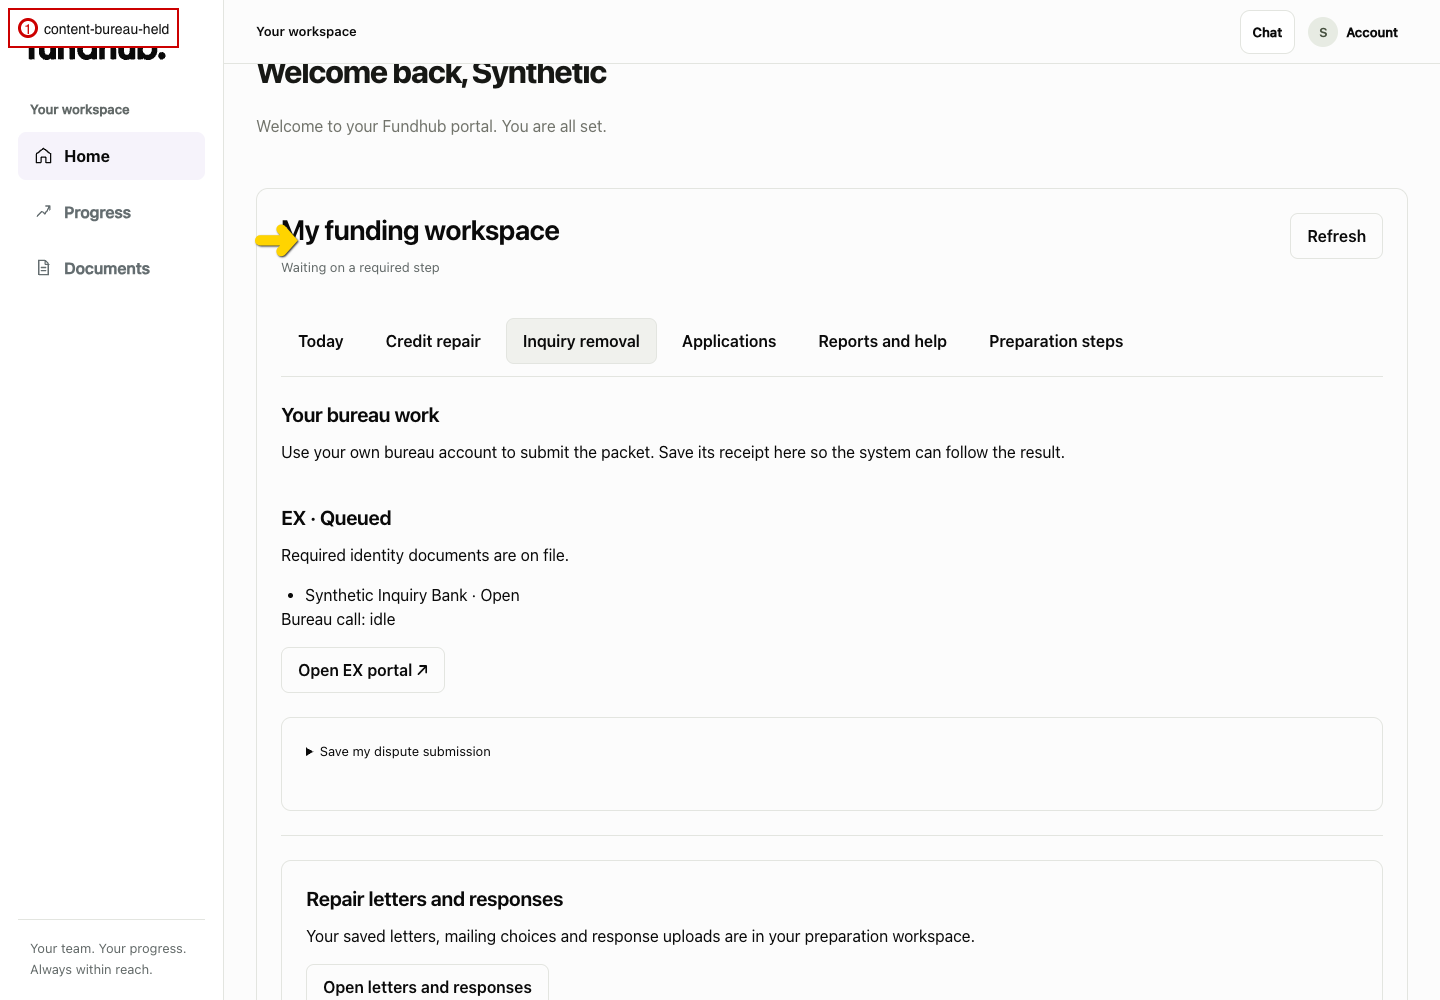
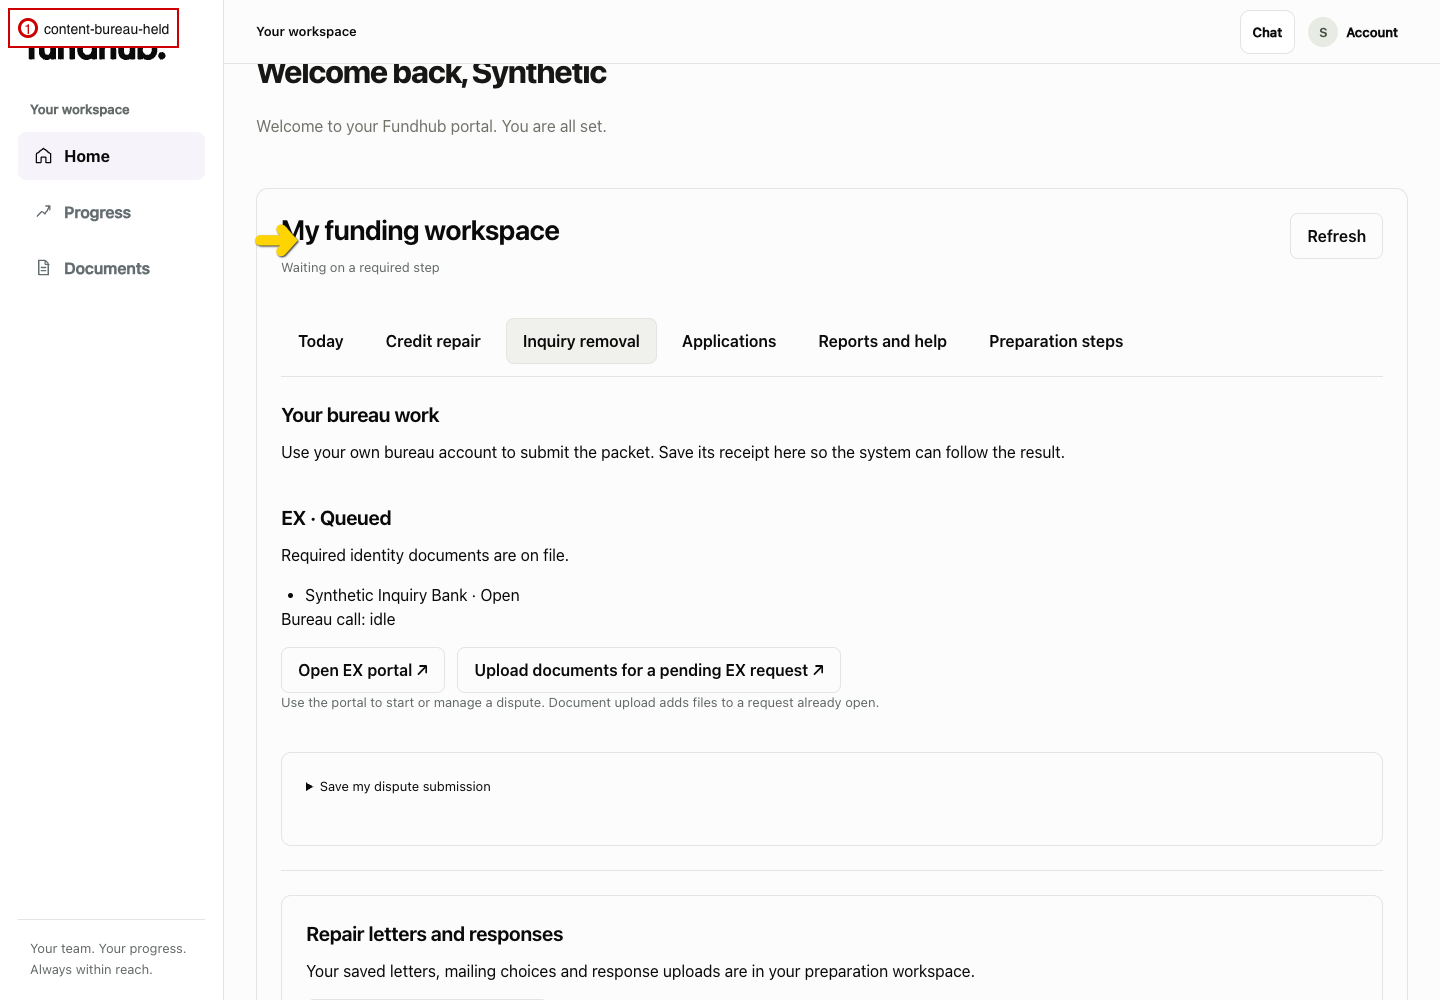
Use correct bureau dispute and supporting-upload destinations

Changed region(s): [[0.2188, 0.868, 0.6875, 1.0], [0.2188, 0.651, 0.5938, 0.713], [0.2188, 0.744, 0.3438, 0.806]]

diff --git a/public/app/blueprint-fulfillment.js b/public/app/blueprint-fulfillment.js
@@ -166,10 +166,17 @@
       <div class="bf-panel"><h3>Repair letters and responses</h3><p>Your saved letters, mailing choices and response uploads are in your preparation workspace.</p>${button('Open letters and responses','open-letters')}</div></section>`;
   }
 
+  function bureauPortalLinks(c) {
+    if (!active()) return '';
+    const portal = httpsUrl(c.portalUrl);
+    const upload = httpsUrl(c.documentUploadUrl);
+    if (!portal && !upload) return '';
+    return `<div class="bf-row">${portal ? `<a class="bf-link" href="${esc(portal)}" target="_blank" rel="noopener noreferrer">Open ${esc(c.bureau)} portal ↗</a>` : ''}${upload ? `<a class="bf-link" href="${esc(upload)}" target="_blank" rel="noopener noreferrer">Upload documents for a pending ${esc(c.bureau)} request ↗</a>` : ''}</div>${upload ? '<p class="bf-caption">Use the portal to start or manage a dispute. Document upload adds files to a request already open.</p>' : ''}`;
+  }
+
   function caseView(c) {
     const documents = rows(c.documents);
     const items = rows(c.inquiries);
-    const portal = httpsUrl(c.portalUrl);
     const packet = c.packet || {};
     return `<article class="bf-item"><h3>${esc(c.bureau)} · ${esc(c.status)}</h3>
       ${packet.complete ? '<p>Required identity documents are on file.</p>' : `<p>Documents needed: ${esc(rows(packet.missing).map(item => typeof item === 'string' ? item : item.label).join(', ') || 'Open your document upload steps.')}</p>`}
@@ -179,7 +186,8 @@
       ${c.nextCheckAt ? `<p>Next check: ${esc(date(c.nextCheckAt))}</p>` : ''}
       ${c.submissionReference ? `<p>Submission reference: ${esc(c.submissionReference)}</p>` : ''}
       ${c.call?.status ? `<p>Bureau call: ${esc(c.call.status)}</p>` : ''}
-      <div class="bf-row">${portal && active() ? `<a class="bf-link" href="${esc(portal)}" target="_blank" rel="noopener noreferrer">Open ${esc(c.bureau)} portal ↗</a>` : ''}
+      ${bureauPortalLinks(c)}
+      <div class="bf-row">
       ${documents.map(d => button(d.title || 'Open packet document','document',`data-id="${esc(d.id)}"`)).join('')}
       ${c.actions?.canCheckSavedEvidence ? button('Check saved bureau evidence','check-evidence',`data-id="${esc(c.id)}"`) : ''}</div>
       ${c.actions?.canLaunchCall && active() ? `<form data-bf-form="bureau-call" data-case="${esc(c.id)}" class="bf-panel"><label class="bf-authorization"><input type="checkbox" name="authorization" required> I authorize my AI agent to contact ${esc(c.bureau)} about the inquiries in this case.</label><button type="submit">Call bureau with my AI agent</button></form>` : ''}
@@ -246,7 +254,7 @@
       ${uploadForms(authorization.uploads)}
       <p>${esc(repair.stage || 'Your current saved repair file')}</p>
       ${repair.actions?.canGenerate && active() ? button('Prepare my current repair letters','generate-repair','',true) : ''}
-      ${rows(repair.cases).map(c => `<article class="bf-item"><h3>${esc(c.bureau)} · ${esc(c.round)} · ${esc(c.status)}</h3>${rows(c.items).map(item => `<p>${esc(item.creditor || item.creditorName || item.name || '')}${item.status ? ' · ' + esc(item.status) : ''}</p>`).join('')}${rows(c.letters).map(letterView).join('')}</article>`).join('')}
+      ${rows(repair.cases).map(c => `<article class="bf-item"><h3>${esc(c.bureau)} · ${esc(c.round)} · ${esc(c.status)}</h3>${bureauPortalLinks(c)}${rows(c.items).map(item => `<p>${esc(item.creditor || item.creditorName || item.name || '')}${item.status ? ' · ' + esc(item.status) : ''}</p>`).join('')}${rows(c.letters).map(letterView).join('')}</article>`).join('')}
       ${active() ? '<form data-bf-form="repair-response" class="bf-panel"><h3>Upload a bureau response</h3><label>Response document<input type="file" name="file" accept="application/pdf,image/jpeg,image/png" required></label><button type="submit">Upload response for review</button></form>' : ''}</section>`;
   }
 

diff --git a/docs/journeys/capital-blueprint-intended.md b/docs/journeys/capital-blueprint-intended.md
@@ -8,7 +8,7 @@ The existing preparation package remains $5,000–$10,000. The separately purcha
 
 - Keep one client file, existing repair cases, inquiry-removal cases, applications and purchased funding round across the client and CSM views. The client performs the employee workflow through scoped client controls. The system checks the result; a client's report, elapsed waiting period or checked box cannot verify a removal or funding result.
 - Follow optimize → permitted application → optimize/verify again within the purchased engagement. Check the current report, holds, permitted lender/business and bureau protection before every direct lender handoff. A clean bureau can proceed only when existing rules permit. A timer schedules a check; it does not establish removal.
-- Prepare the current repair letters, provide saved documents and official bureau destinations, record the client's actual submission receipts, ingest bureau responses through the existing response reader, and retain case/round attribution. Identity review and the signed current agreement gate the available AI bureau calls. Save the durable dispatch claim and actual provider receipt separately.
+- Prepare the current repair letters, provide saved documents and official bureau destinations, record the client's actual submission receipts, ingest bureau responses through the existing response reader, and retain case/round attribution. Both inquiry and repair views show those destinations. Experian's dispute center starts or manages a dispute; its separate document uploader supports an existing request. Preserve both links with clear instructions. Identity review and the signed current agreement gate the available AI bureau calls. Save the durable dispatch claim and actual provider receipt separately.
 - Record client bank reports separately from verified approval and actual issued/usable funding. Bind evidence to the exact application, lender and purchased round. Contradictory or ambiguous bank messages require team review. Approval alone is not funding. Close new submissions when the client finishes applying; resolve remaining actual outcomes before ending the round.
 - CSMs see every active full-package buyer, including a buyer who has no open task or help request. They follow the same saved work and may quote inquiry removal, one repair round, full repair or funding takeover. Quote → explicit client acceptance → exact verified payment precedes team ownership. Offer the existing Commas or configured Whop financing rail for that exact quote. Continue the same case/round; do not restart its history or borrow another sale's fees. Funding takeover changes funding ownership only; other repair/inquiry work remains client-operated unless its exact scope is separately delegated. Finish paid help with a scoped service receipt backed by the actual case/round outcome.
 - Include one soft pull per shared 30-day allowance window while the full engagement is active. A buyer without saved encrypted identity or current consent completes the existing secure authorization form, then receives one included request with no additional assessment checkout. Repeated submissions return the saved request, and automatic scheduling waits for that setup. All request entrances share the allowance. Additional reports use separately accepted exact quotes and confirmed payment. Parallel jobs cannot order the same request twice, and an uncertain provider outcome stays held for receipt reconciliation.

diff --git a/docs/journeys/capital-blueprint-actual.md b/docs/journeys/capital-blueprint-actual.md
@@ -8,6 +8,8 @@ Funding reuses UnderwriteIQ, lender matching, inquiry protection and application
 
 Repair and inquiry work use current cases, generated letters, reviewed identity, signed authorization, actual multipart receipt uploads and the existing bureau response reader. The client cannot mark an inquiry removed. Exact report/response evidence releases only the supported items and bureaus. AI call claims and provider call IDs remain distinct from completion. Funding takeover leaves independent repair and inquiry actions available; only an exact delegated case, repair round or full repair scope blocks those client actions.
 
+November 6 primary-source link check: [Experian's dispute center](https://www.experian.com/help/dispute-credit/) starts/manages disputes; its [document uploader](https://www.experian.com/consumer/upload/) is for a pending request. Both are now separate fixed read-only destinations in inquiry and repair cases, with the existing [Equifax](https://www.equifax.com/personal/credit-report-services/credit-dispute/) and [TransUnion](https://www.transunion.com/credit-disputes/dispute-your-credit) destinations retained. The shared client UI renders both case types' links, validates HTTPS, and hides new-submission links after completion. This checks public entry pages; it does not claim a submission inside a customer's bureau account.
+
 The shared report ledger enforces the included allowance and paid extras. The existing secure approval form has a full-package client mode: encrypted identity and typed consent are saved before one included report request, without selling an assessment. Refresh/replay returns the same saved request, while a consumed window stays consumed. Automatic scheduling waits for saved encrypted identity and consent. The client-services worker preserves an active claim when another worker already owns it, and preserves uncertain provider work for review. Refunded paid report rights cannot fall back to base access. Optional team work uses exact scoped quotes and verified paid-service receipts through Commas or configured Whop financing. Frozen provider, accepted exact price and independently verified payment identifiers prevent cross-provider or changed-quote fulfillment; late money and uncertain checkout creation stay held with a CSM recovery task.
 
 Candidate evidence: the normal HTTP router and restricted PostgreSQL role passed six desktop/phone browser journeys, including first-report authorization, canonical purchase/access, real multipart uploads, bureau protection, bank handoff, CSM quote, exact paid help, completion and loading/error recovery. Provider transports were isolated. First-report tests passed 93/93, service financing 54/54, and funding-versus-repair ownership 28/28; these focused runs had zero skips. Independent final review passed 38/38 with zero skips and found no remaining P1/P2 blocker. Repository regression checks continue. Current local proof does not establish a production release, actual customer payment, bureau call, inquiry deletion or live credit pull. Release and authenticated deployed proof remain pending until recorded below.
